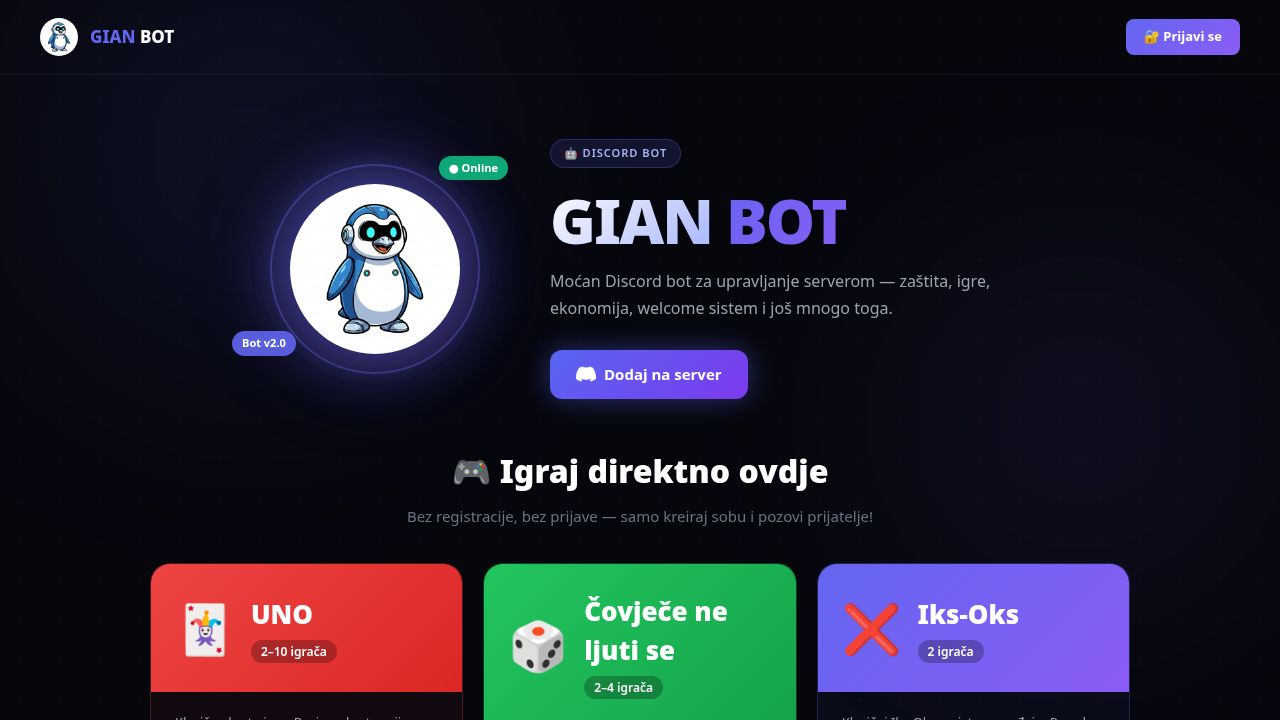
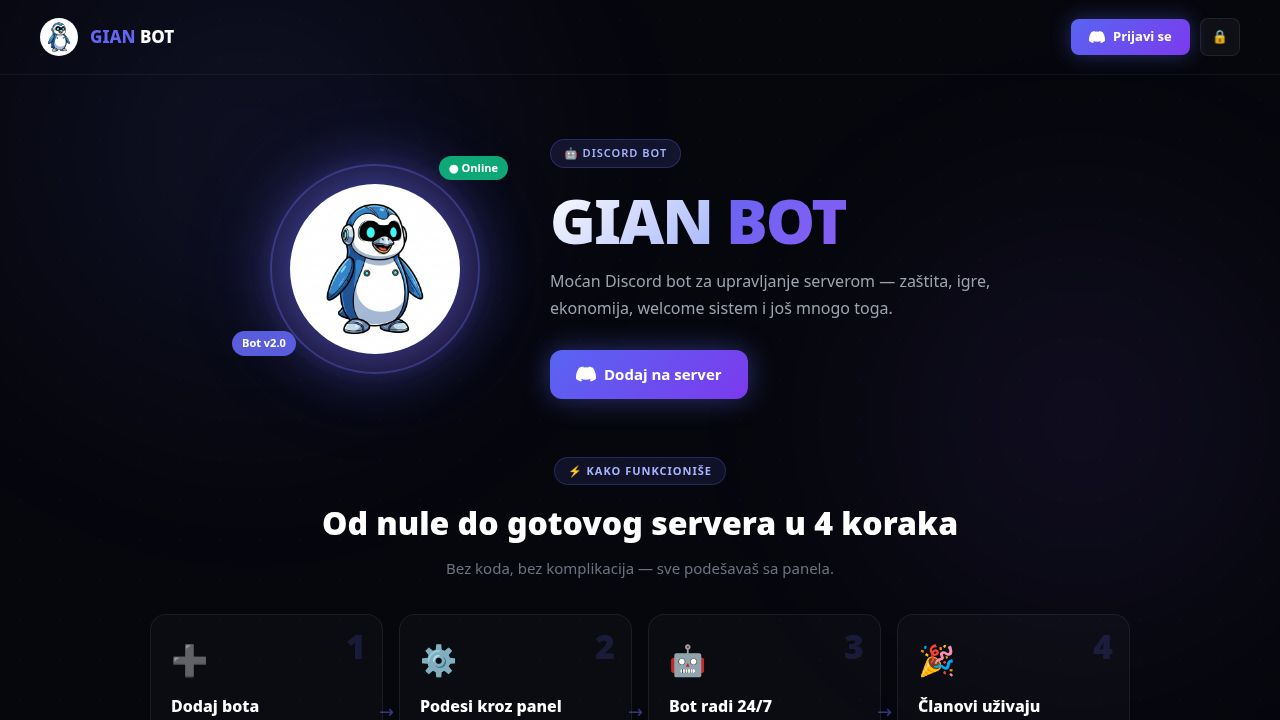
Popravak igara: input vise ne gubi fokus (pisanje cijele rijeci/recenice, ne slovo po slovo) u svim multiplayer igrama

Changed region(s): [[0.0938, 0.6111, 0.9062, 1.0], [0.8125, 0.0, 0.9688, 0.0917]]

diff --git a/public/index.html b/public/index.html
@@ -16,7 +16,7 @@
     <link rel="preconnect" href="https://fonts.googleapis.com">
     <link rel="preconnect" href="https://fonts.gstatic.com" crossorigin>
     <link href="https://fonts.googleapis.com/css2?family=Inter:wght@400;500;600;700&display=swap" rel="stylesheet">
-    <script type="module" crossorigin src="/assets/index-9HMUpAgU.js"></script>
+    <script type="module" crossorigin src="/assets/index-wuWFdzdL.js"></script>
     <link rel="modulepreload" crossorigin href="/assets/vendor-react-Bof__VhG.js">
     <link rel="modulepreload" crossorigin href="/assets/vendor-query-CklR7TMS.js">
     <link rel="modulepreload" crossorigin href="/assets/vendor-ui-e1E4PCee.js">